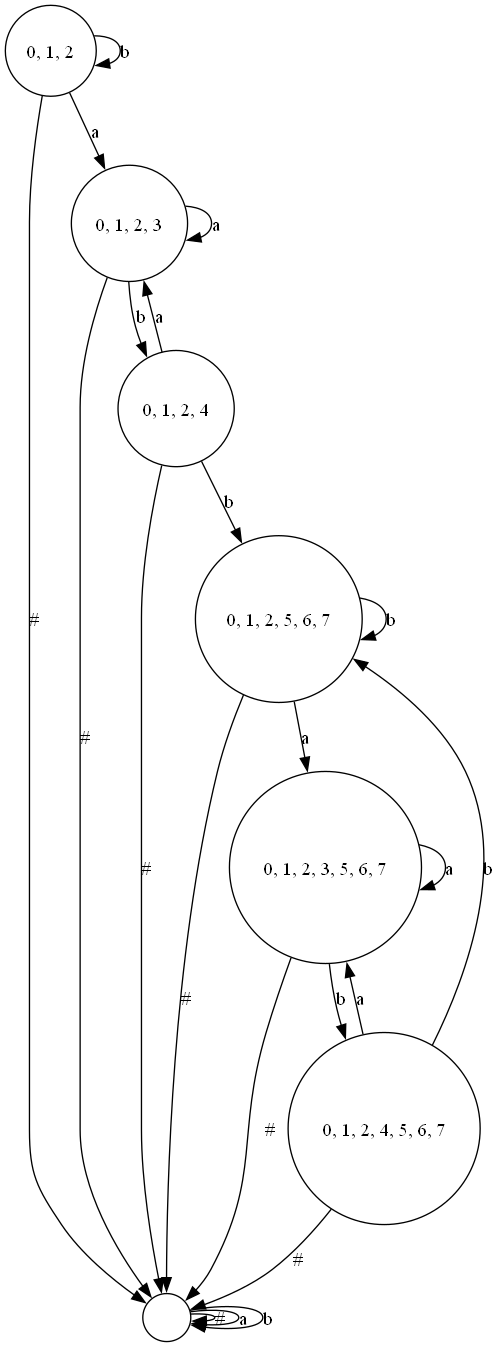
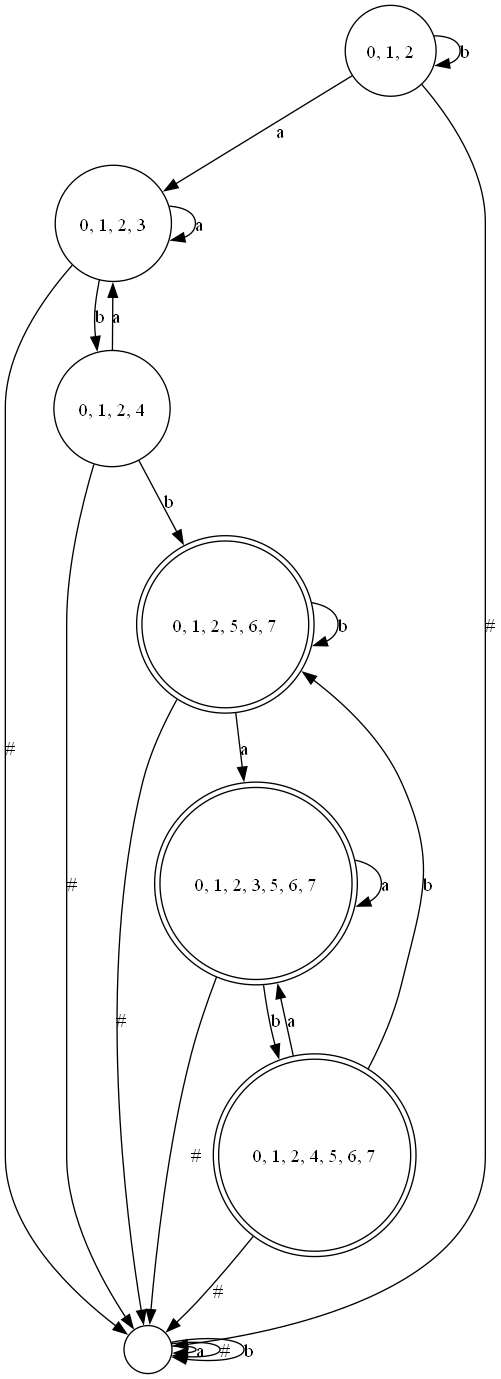
DFA acceptance states done
Falta, remover el 'estado vacio'

diff --git a/DirectConstruction.py b/DirectConstruction.py
@@ -15,12 +15,12 @@ class DirectConstruction:
         self.first_positions = self._firstpos()
         self.last_positions = self._lastpos()
         self.follow_positions = self._followpos()
-        self.dfa_transitions = {}  # Tabla de transiciones del DFA
-        self.dfa_states = {}  # DFA como tal
-        self.dfa = self._construct_dfa()
 
-        # Nuevo atributo para almacenar los estados de aceptación
+        # Inicializar el conjunto de estados de aceptación
         self.accepting_states = set()
+
+        # Construir DFA después de inicializar todos los atributos necesarios
+        self.dfa = self._construct_dfa()
 
     def _normalize_tree(self, tree: TreeNode):
         """
@@ -214,16 +214,11 @@ class DirectConstruction:
                 # Añadir transición
                 self.states[current_state][symbol] = U
 
-            # Manejar el caso de estado final (sin followpos)
-            if not any(pos in self.follow_positions for pos in current_state):
-                final_state = frozenset()  # Define un estado final vacío
-                # Agrega una transición con '#' hacia el estado final
-                self.states[current_state]['#'] = final_state
-
-        # Marcar los estados de aceptación después de completar la construcción del DFA
-        for state in self.states:
-            if frozenset() in state:
-                self.accepting_states.add(state)
+            # Identificar estados de aceptación
+            for pos in current_state:
+                node = self.node_positions_inverse[pos]
+                if node.value == '#':
+                    self.accepting_states.add(current_state)
 
         return self.states
 
@@ -235,8 +230,7 @@ class DirectConstruction:
                 print(f"  Con {symbol} -> {dest_state}")
         # Aquí podrías incluir lógica para identificar y mostrar estados de aceptación
 
-    def _is_accepting_state(self, state):
-        return frozenset() in state
+
 
     def generate_dot_representation(self):
         dot = graphviz.Digraph()
